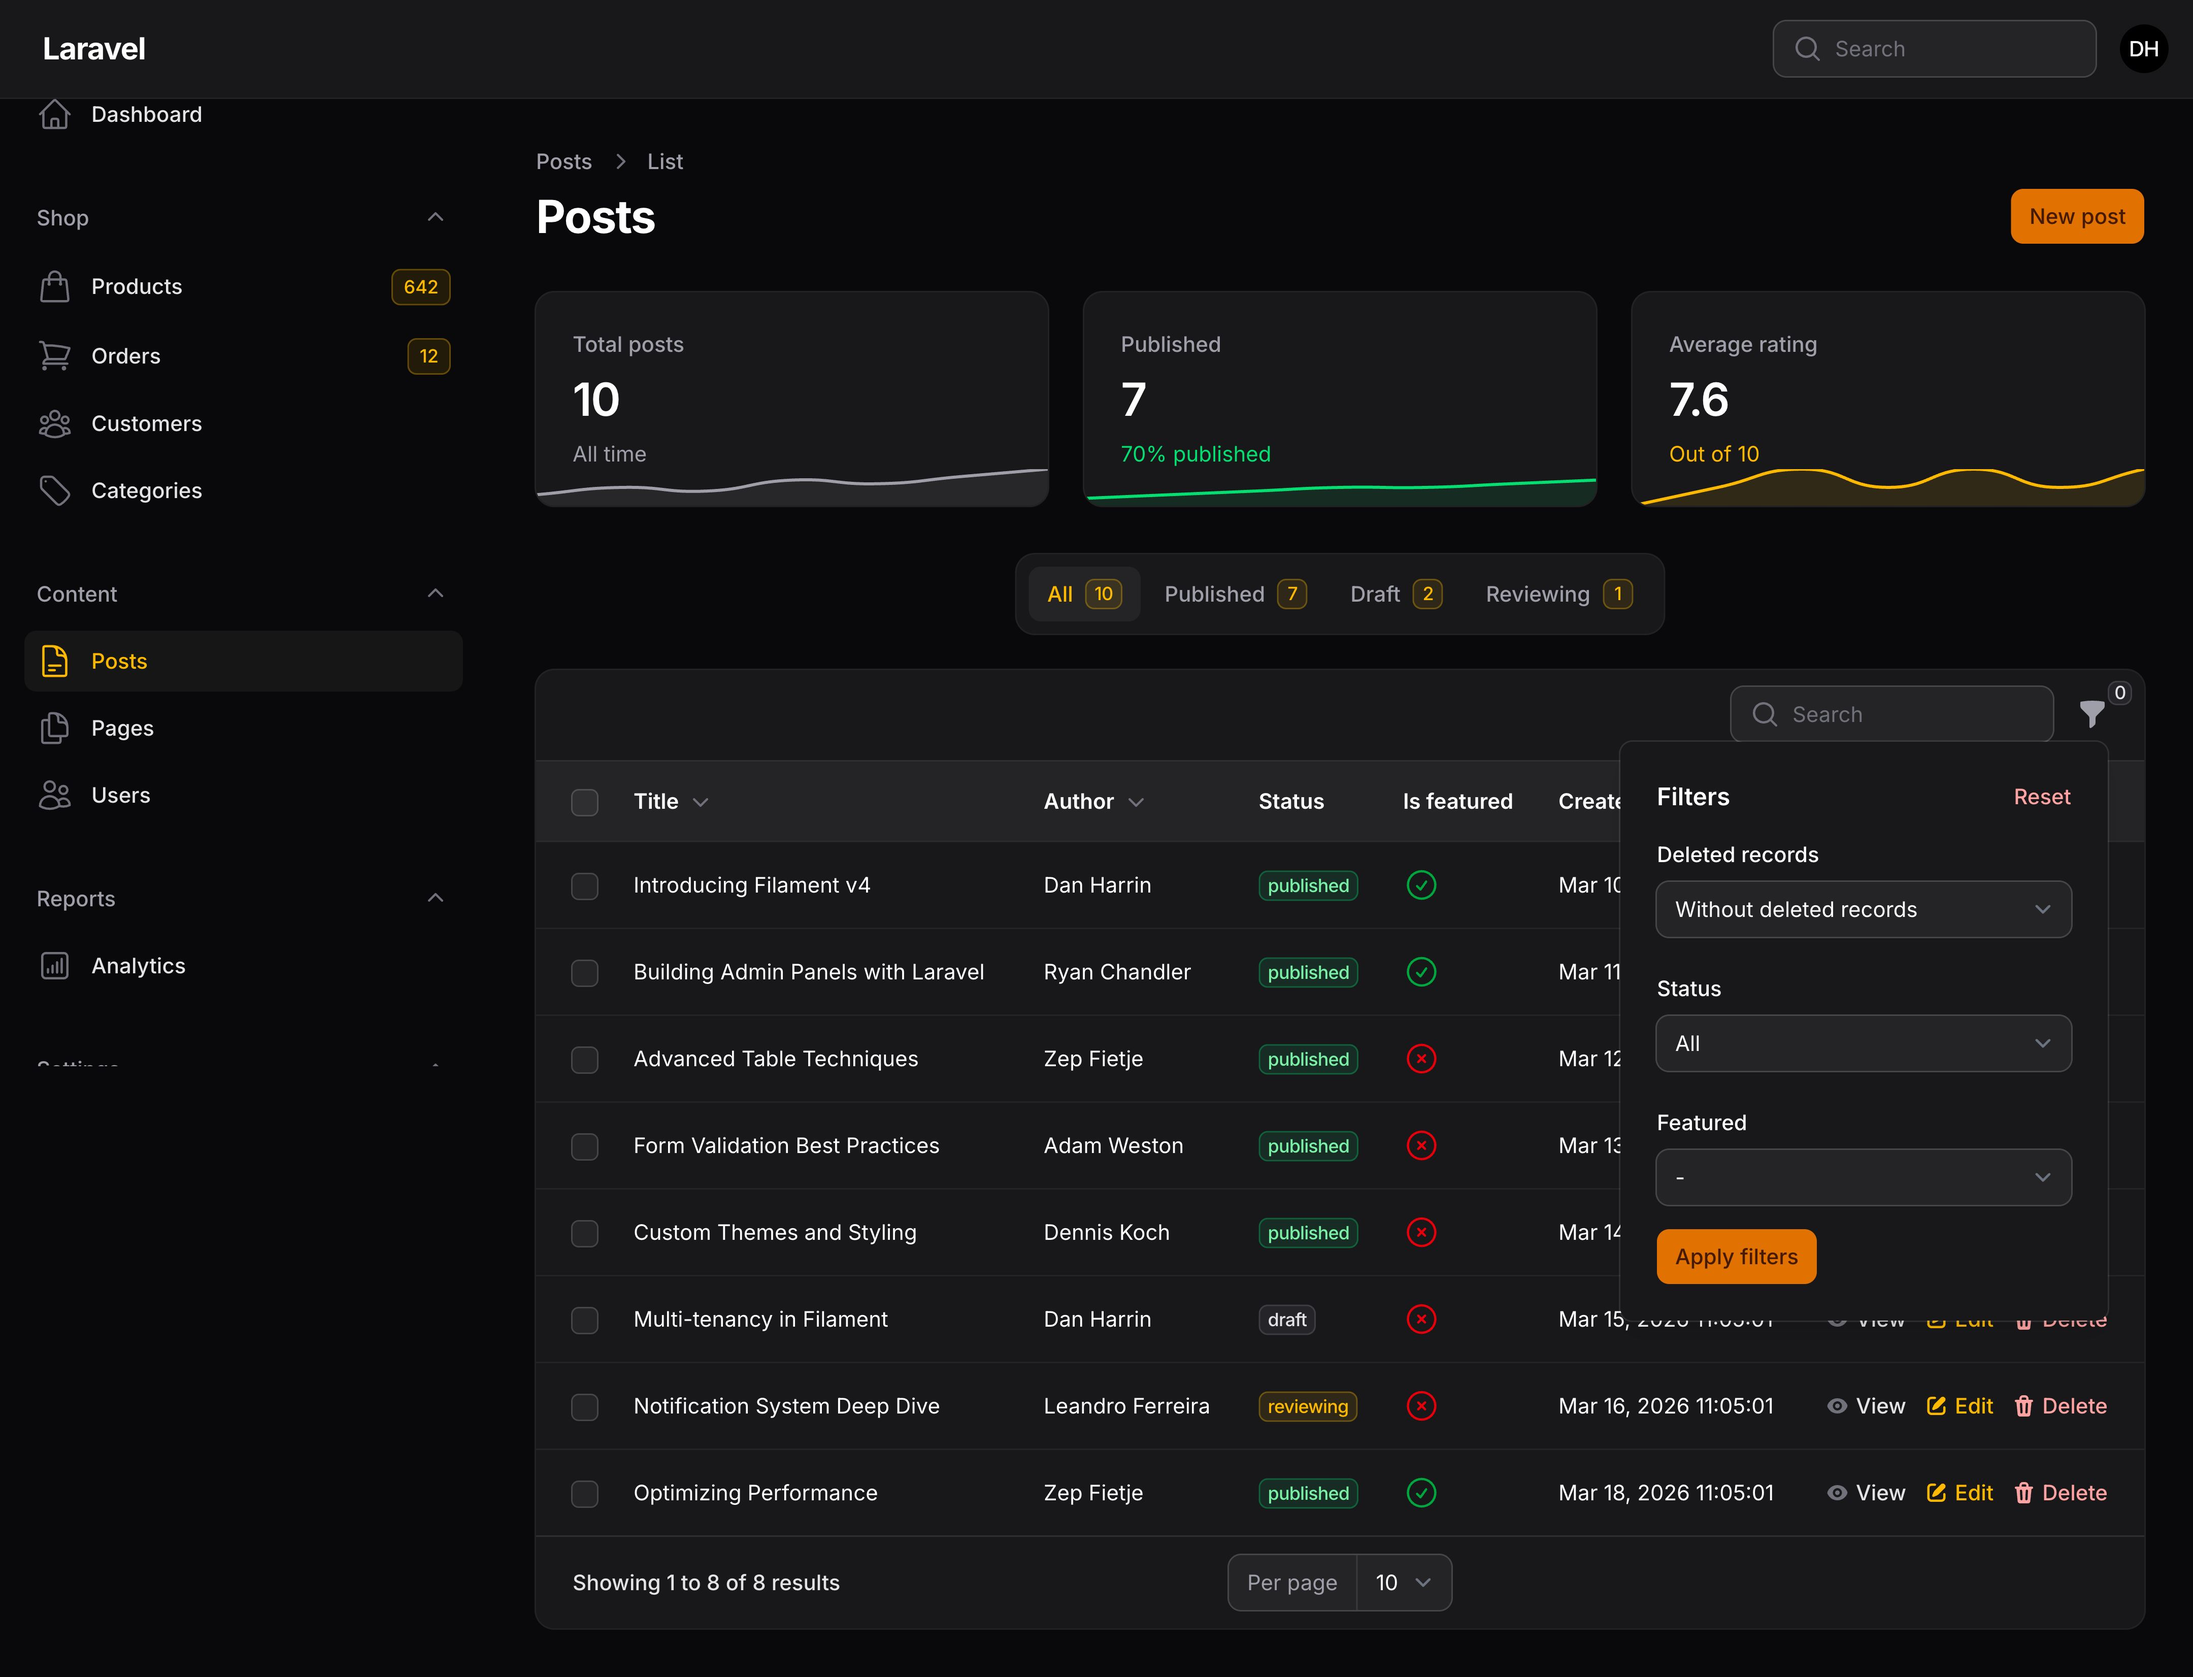
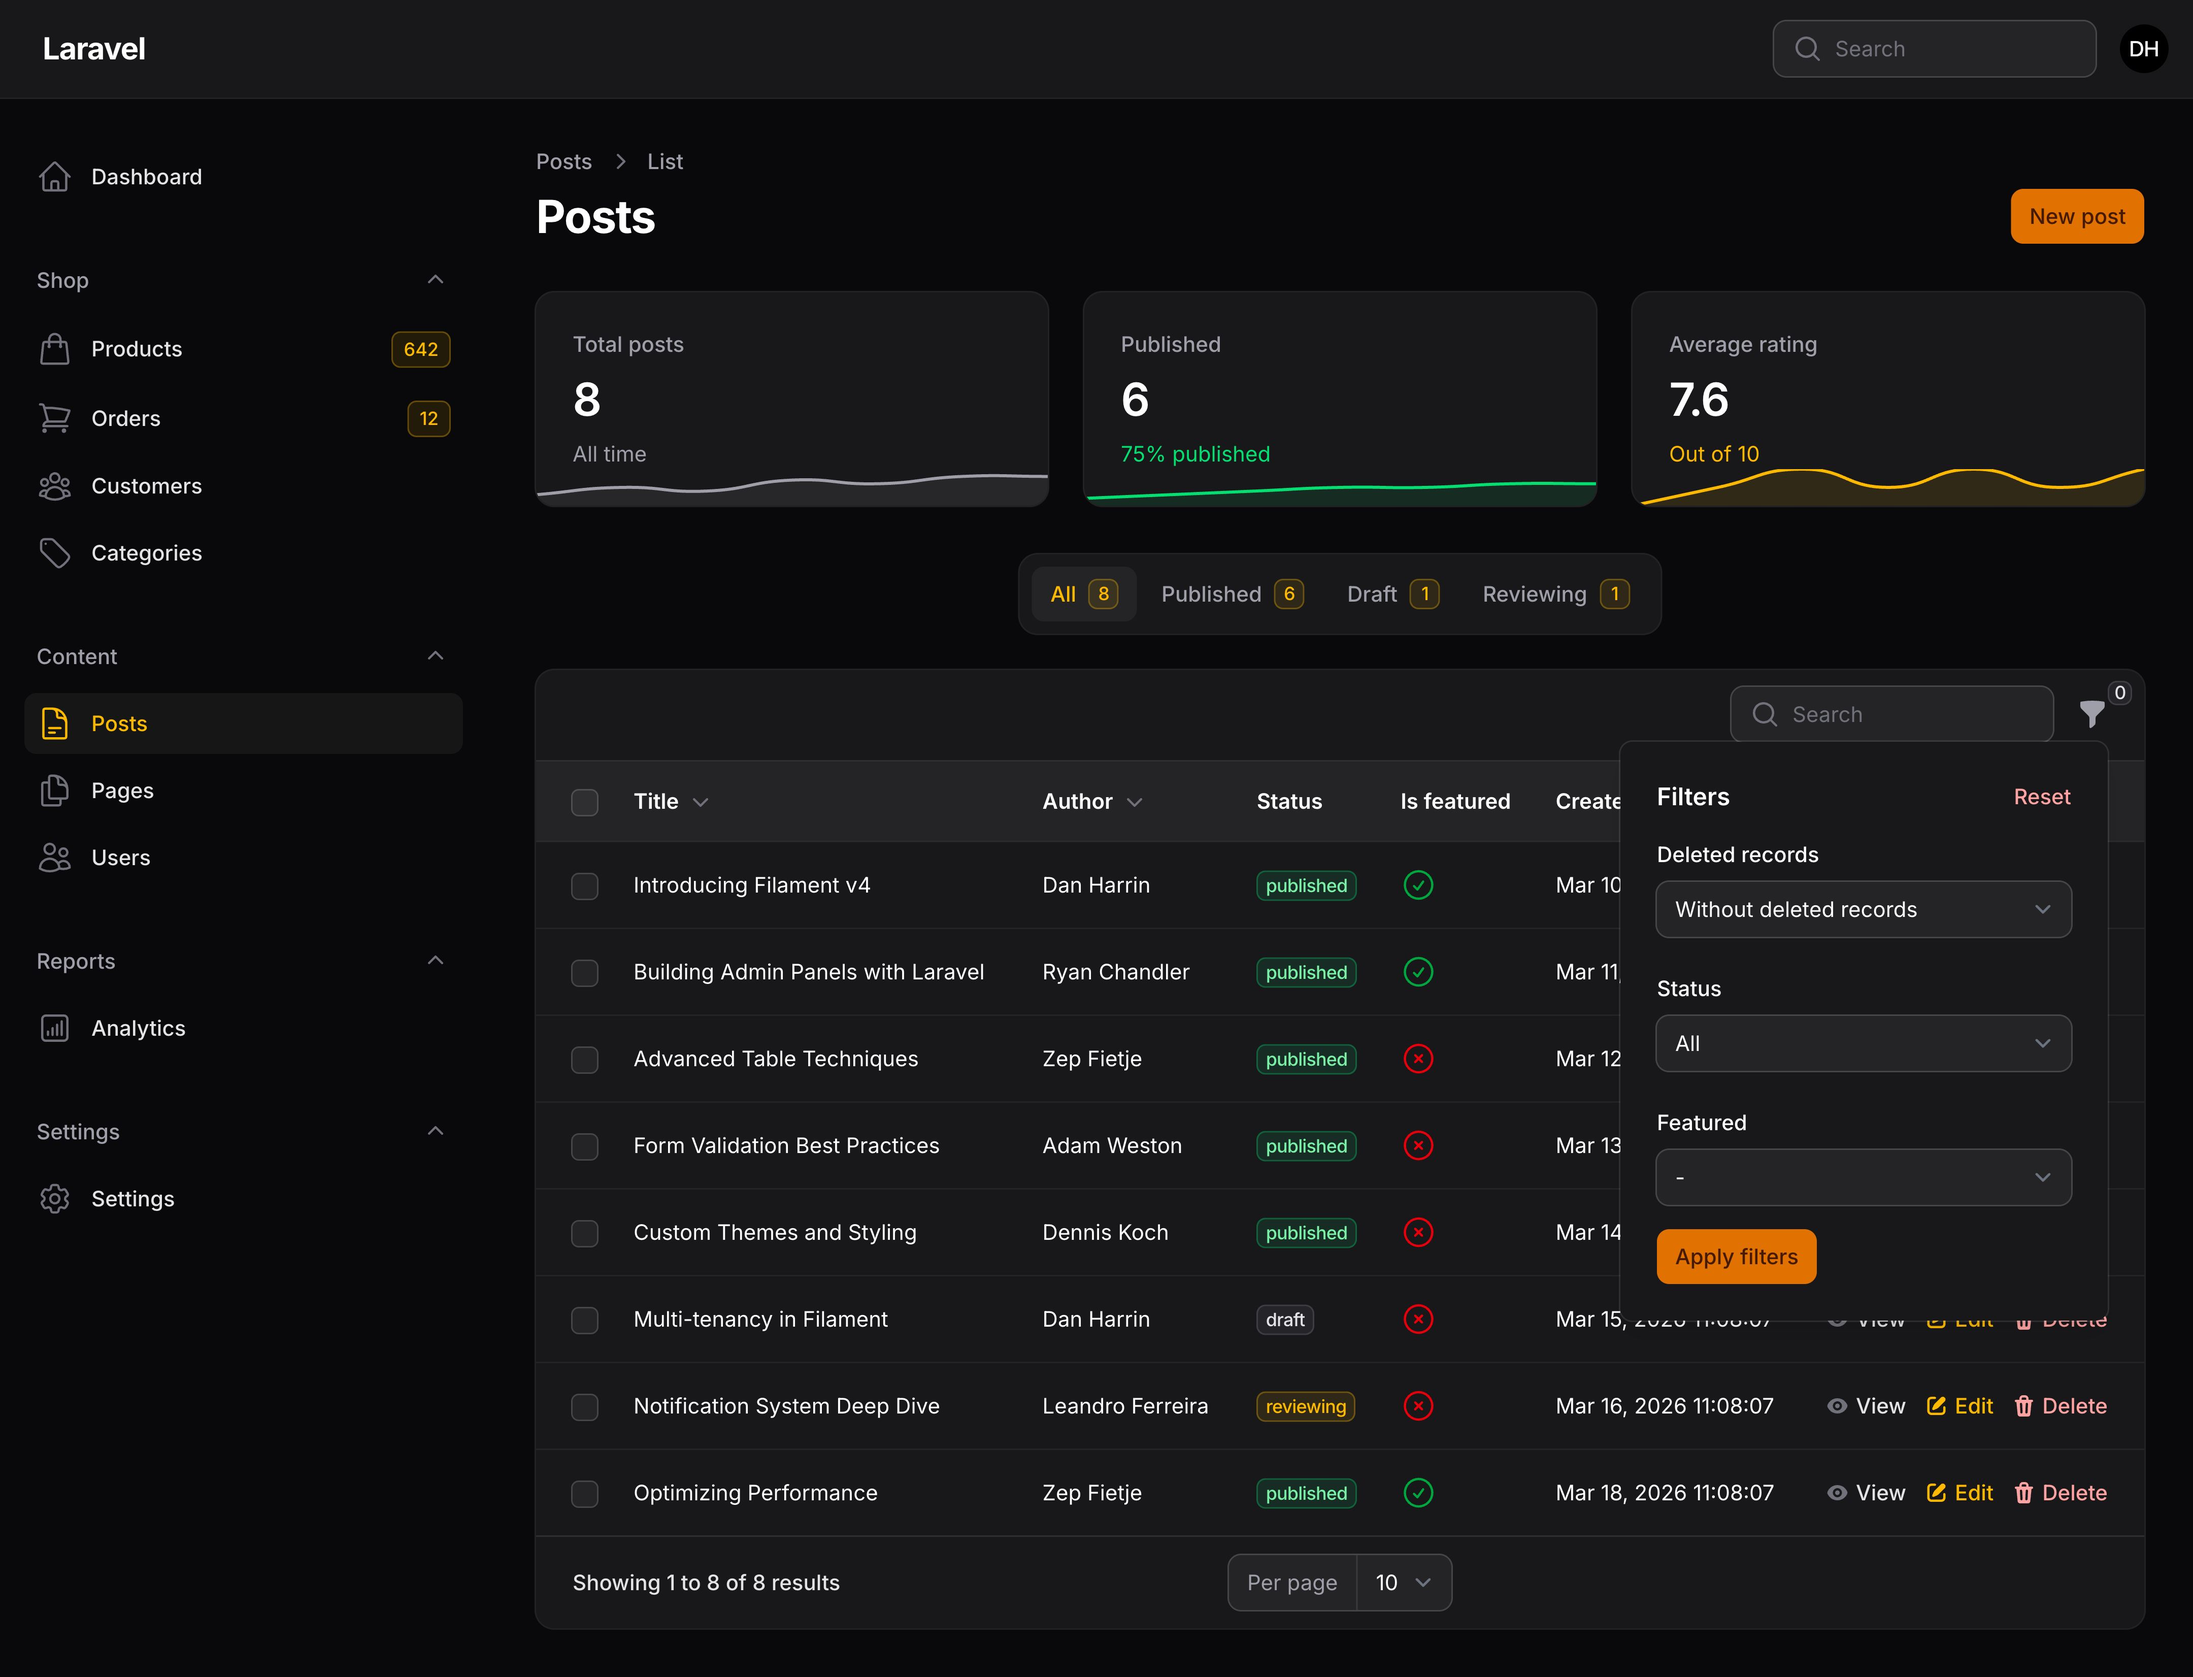
fix cut off sidebar

diff --git a/docs-assets/screenshots/schema.js b/docs-assets/screenshots/schema.js
@@ -4170,7 +4170,7 @@ export default {
         selector: 'body',
         viewport: {
             width: 1440,
-            height: 700,
+            height: 900,
             deviceScaleFactor: 3,
         },
         before: async (page) => {
